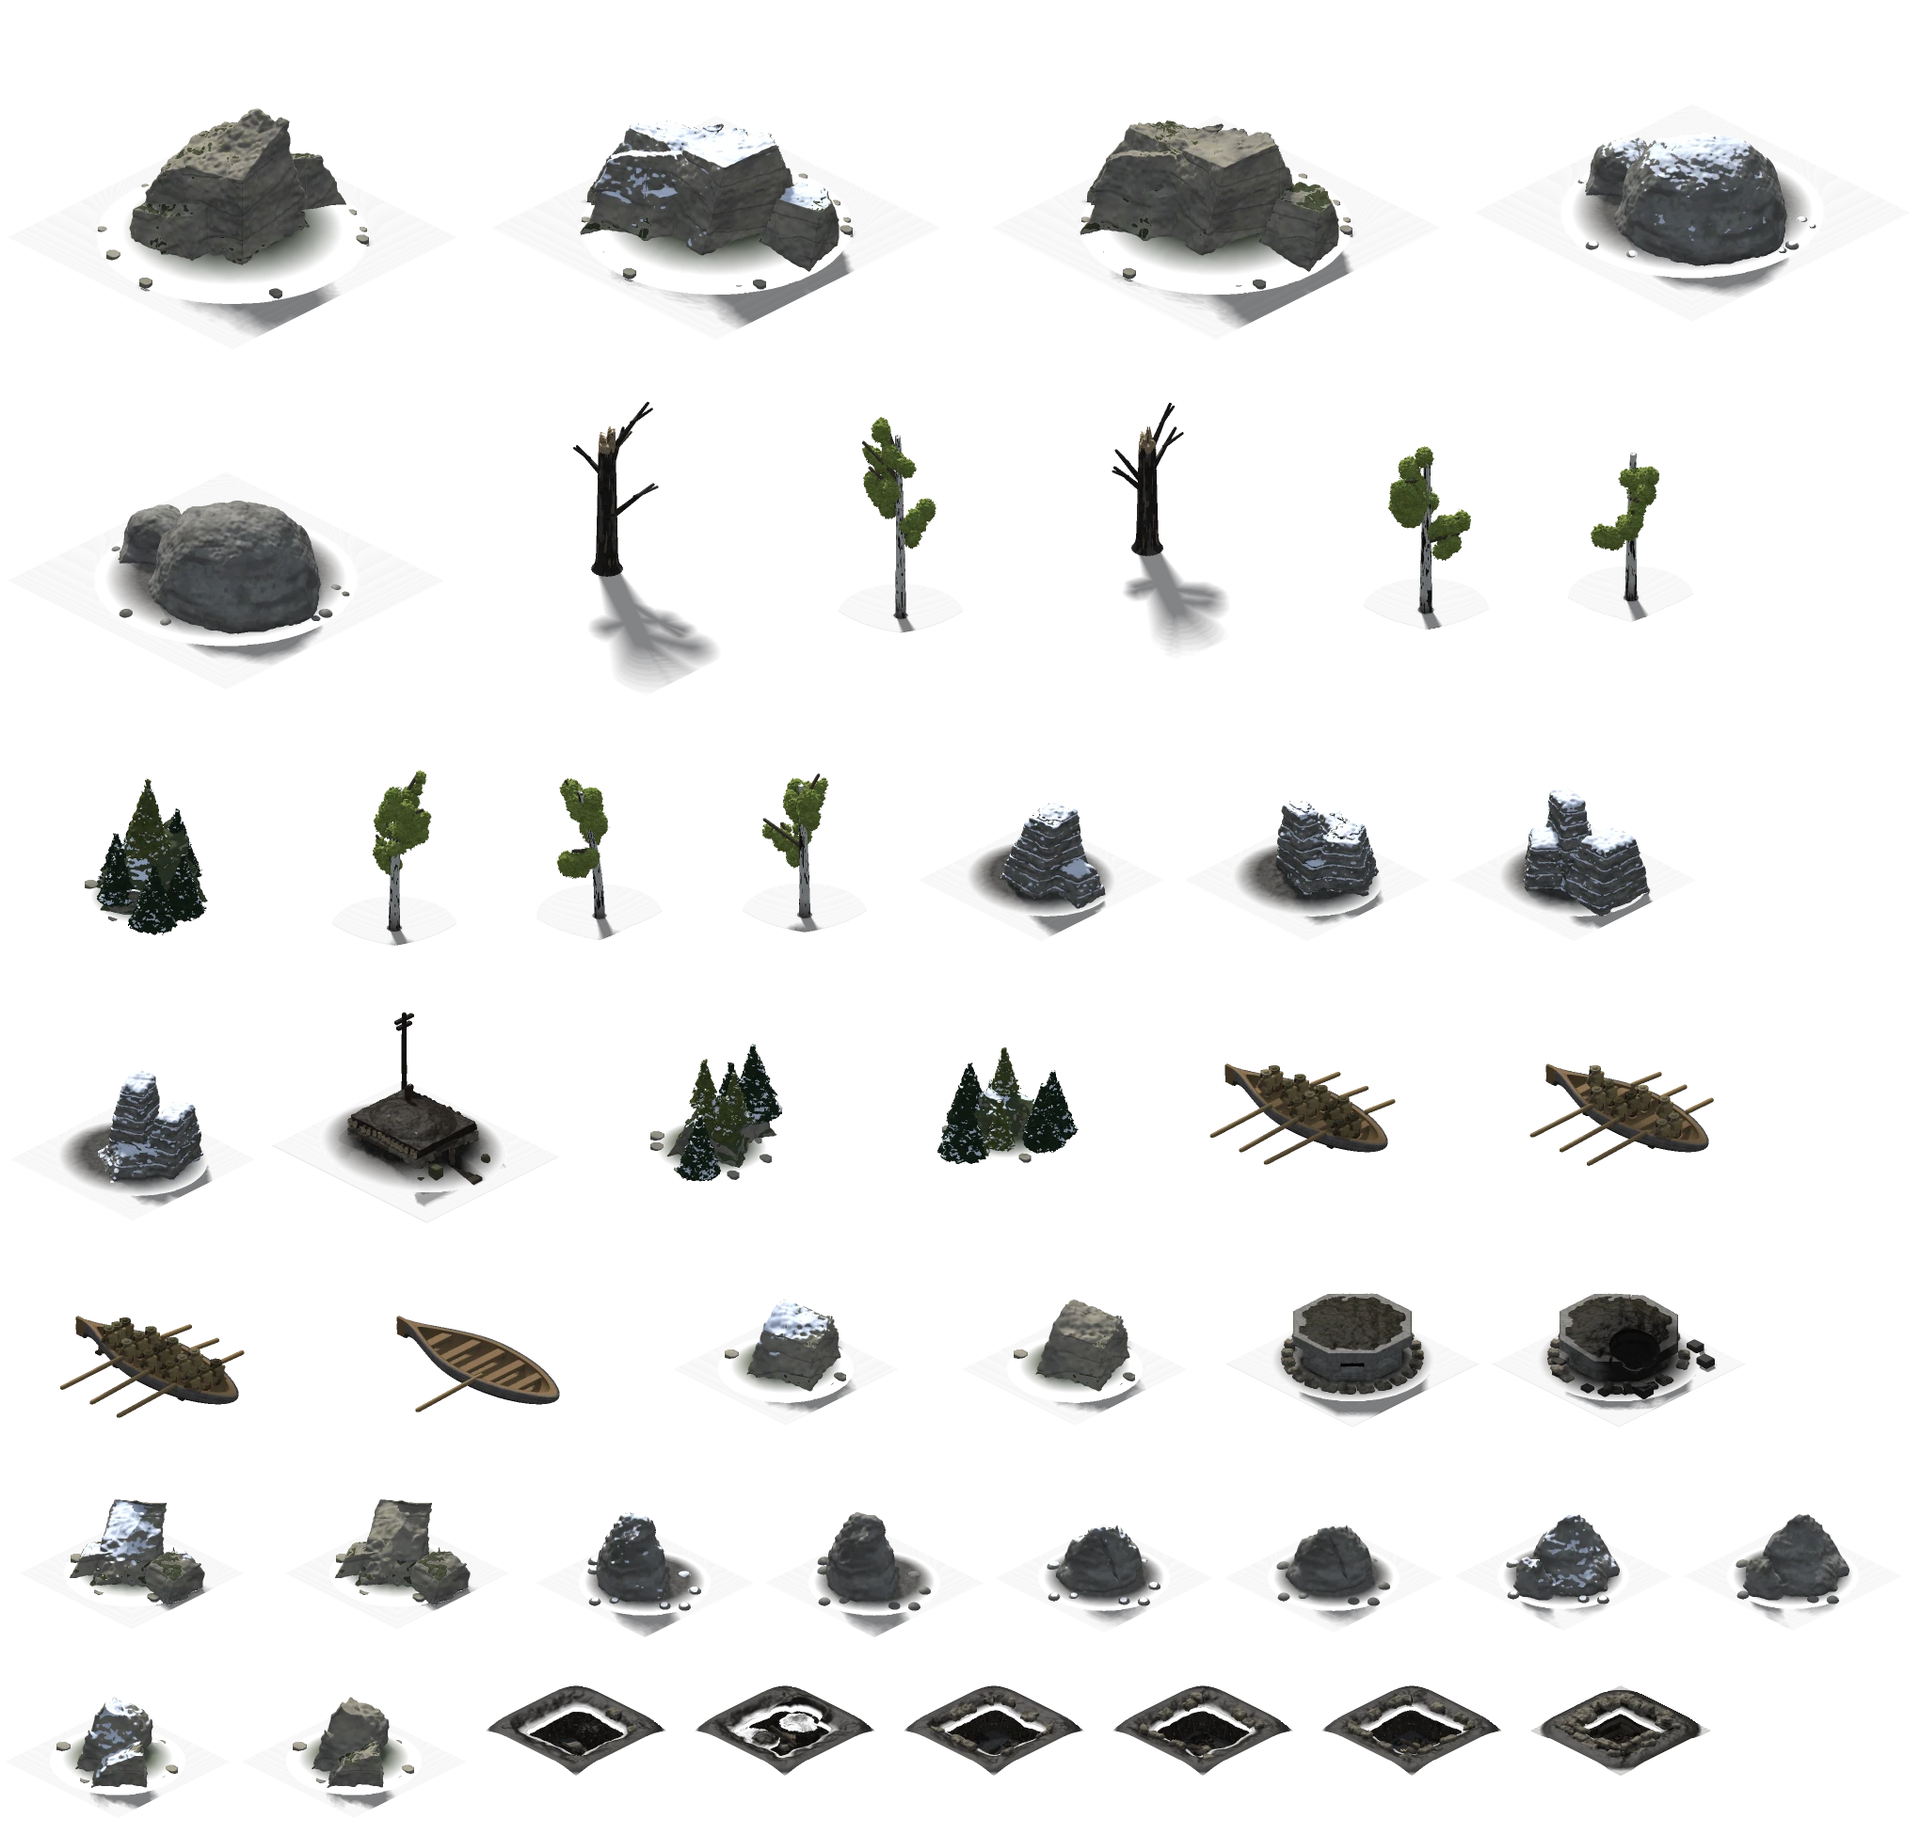
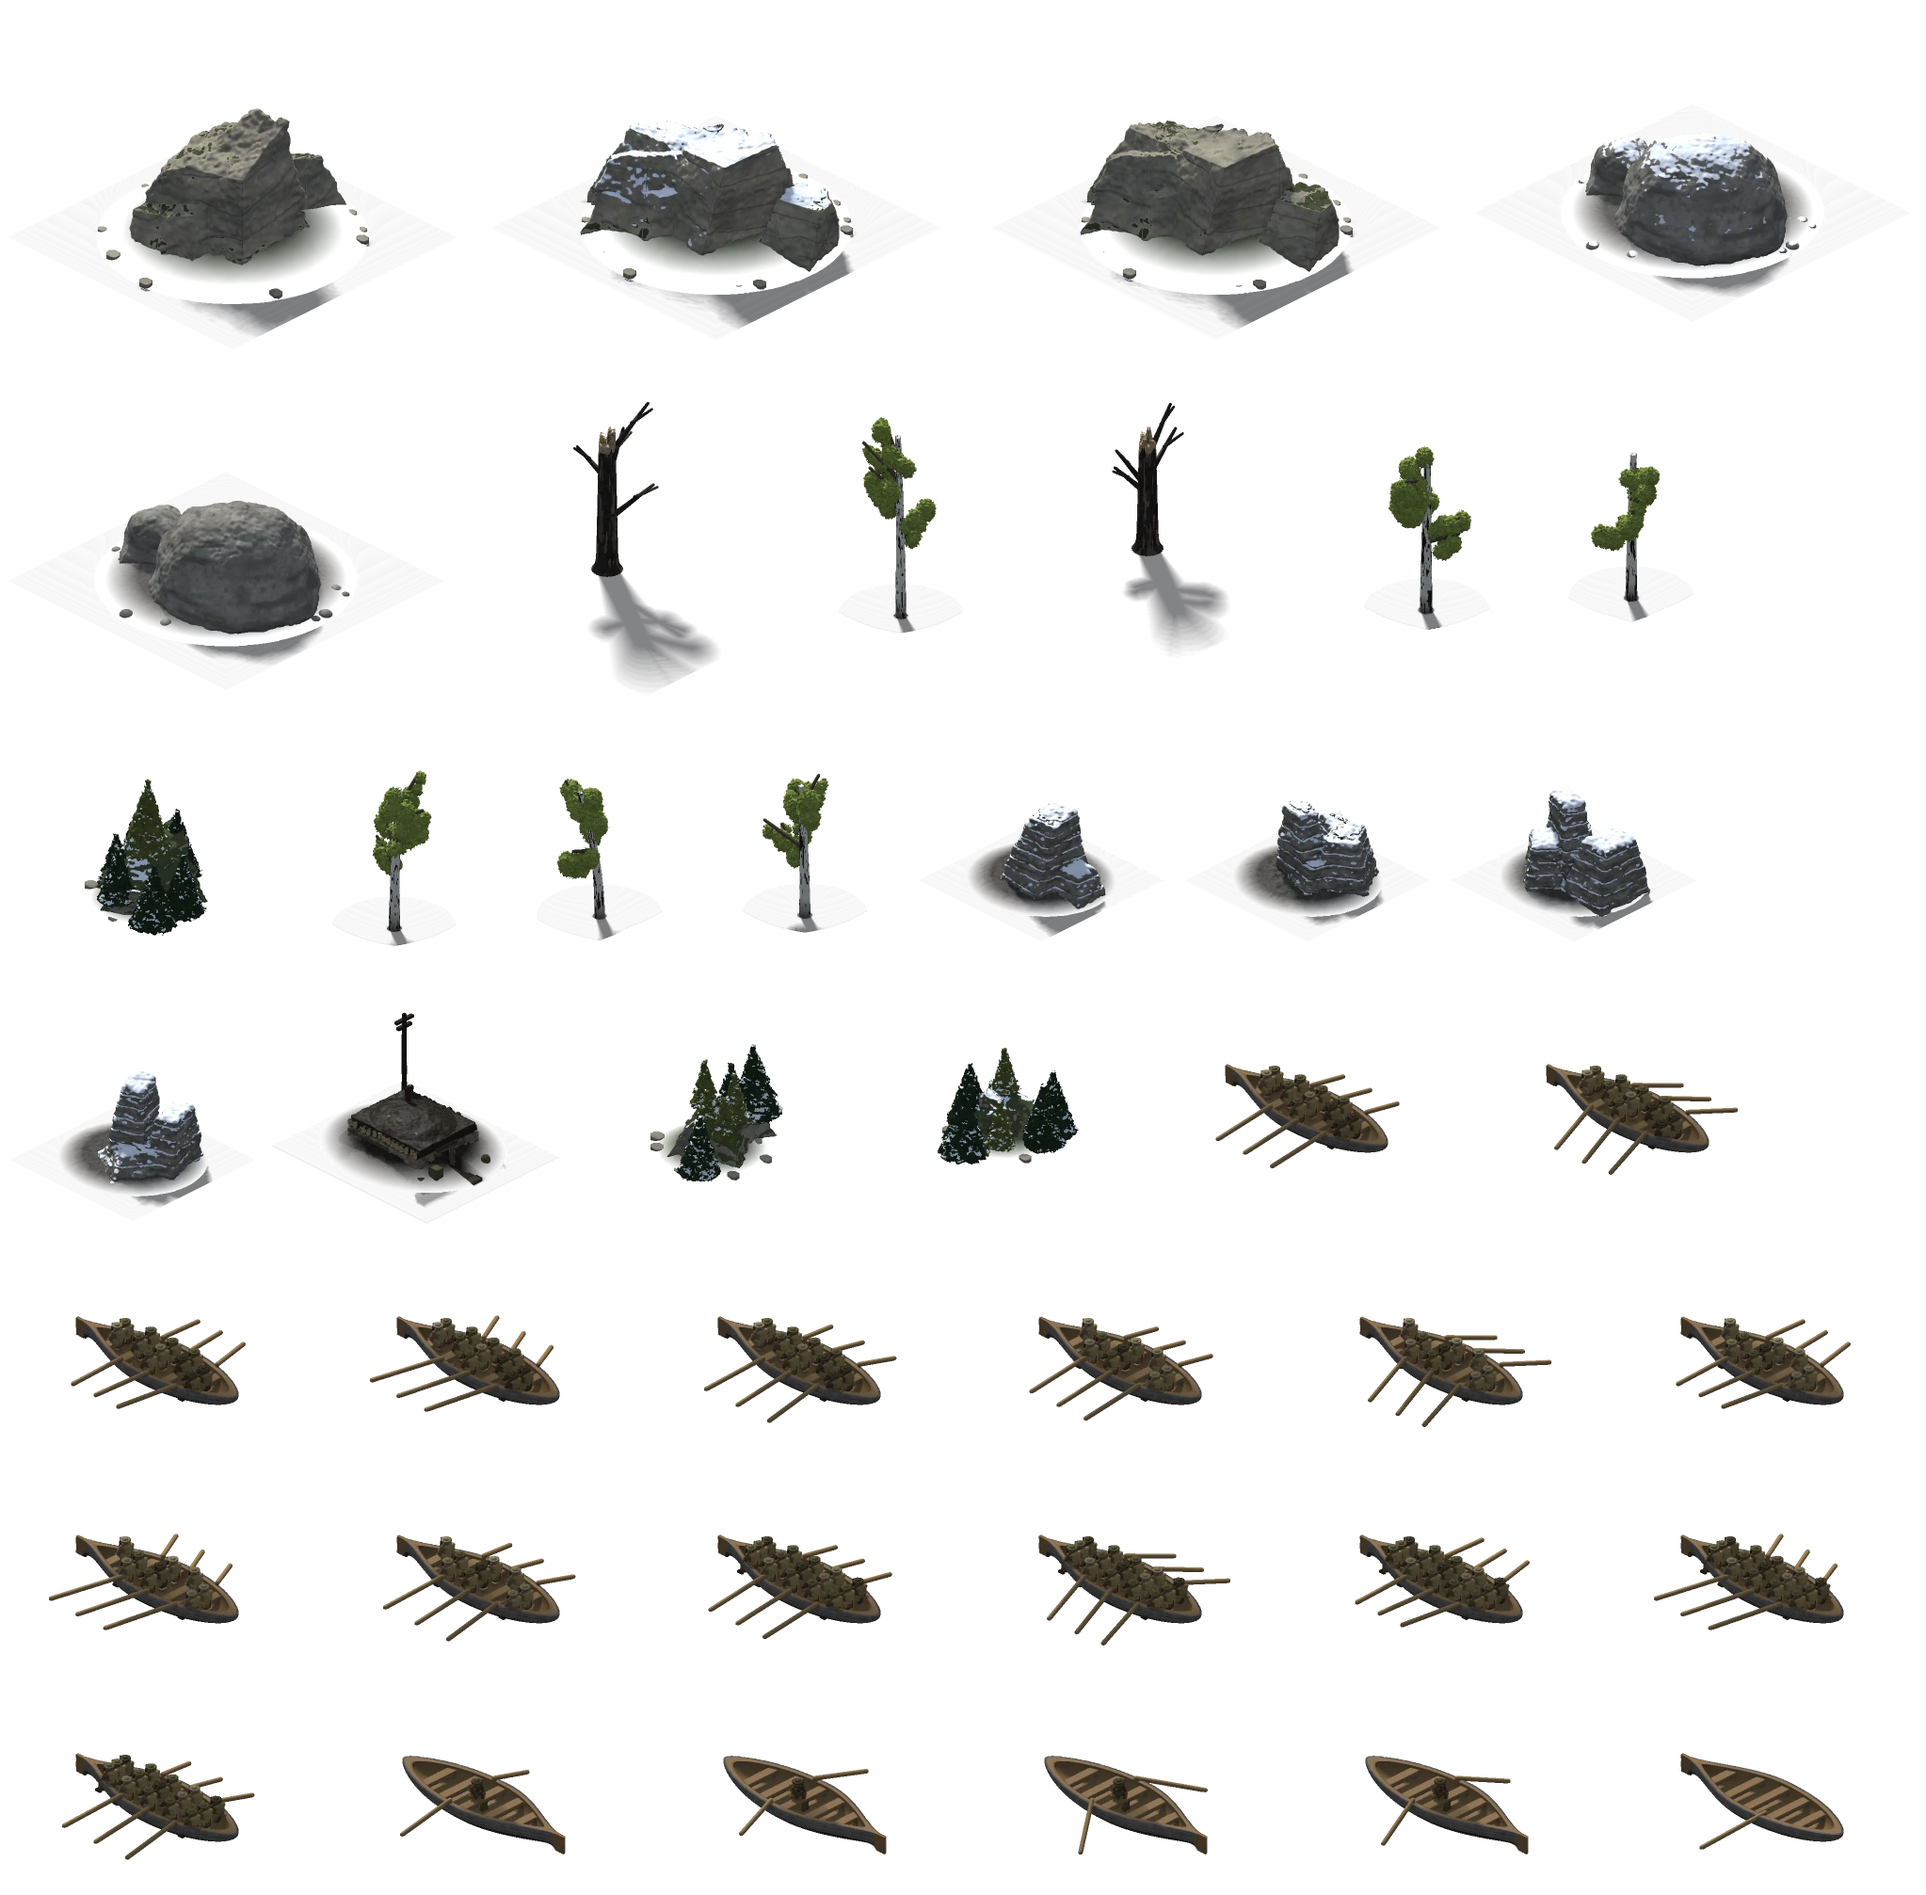
Landing boats rowed in by all hands, rowed back out by one man
The boats coming in are drawn with the oars working (4 pre-rendered strokes, every hand at an oar). On the
beach the men jump out at once and, instead of a beached boat, one of the crew rows the empty boat back
out to sea (a new pre-rendered boat, bow outward, one oarsman, 4 strokes) until it passes off the map.

Claude-Session: https://claude.ai/code/session_01QRLYjet5i3xPK5hPmw42NL

diff --git a/src/render.js b/src/render.js
@@ -981,6 +981,7 @@ export class Renderer {
     if (state.bunkers) for (const b of state.bunkers) objs.push({ k: b.x + b.y + 0.3, kind: 'bunker', b, u: state.units.find((u) => u.id === b.id) });
     for (const u of state.units) if (u.visible && !u.nest) objs.push({ k: u.onShip ? 1e6 : u.x + u.y, kind: 'unit', u }); // (a gun on a ship's deck stands on top of her)
     if (state.wrecks) for (const w of state.wrecks) objs.push({ k: w.x + w.y - 0.5, kind: 'wreck', w });
+    if (state.returning) for (const b of state.returning) objs.push({ k: b.x + b.y, kind: 'back', b });
     objs.sort((a, b) => a.k - b.k);
     for (const o of objs) {
       if (o.kind === 'decor') this.drawDecor(ctx, o.t);
@@ -988,6 +989,7 @@ export class Renderer {
       else if (o.kind === 'rock') this.drawRock(ctx, o.r);
       else if (o.kind === 'giant') { const c = iso(o.gi.x, o.gi.y); this.drawFrame(ctx, this.propGroup(), `giant${o.gi.v}${(this.S ?? 1) > 0.7 ? '_s' : ''}`, c.x, c.y, 1, o.gi.m); }
       else if (o.kind === 'town') this.drawBackdrop(ctx, o.bd);
+      else if (o.kind === 'back') { const c = iso(o.b.x, o.b.y), f = Math.floor((state.time * 1.6 + o.b.t) % 4); this.drawFrame(ctx, this.propGroup(), `boat_back_r${f}`, c.x, c.y + Math.sin(state.time * 1.7 + o.b.t) * 1.2, 1); }
       else if (o.kind === 'wreck') { const c = iso(o.w.x, o.w.y); this.drawFrame(ctx, this.propGroup(), o.w.v === 'empty' ? 'boat_empty' : `boat${o.w.v}`, c.x, c.y, 1, o.w.v === 'empty'); }
       else if (o.kind === 'bunker') this.drawBunker(ctx, o.b, o.u, state.time, ui.selected.has(o.b.id));
       else if (o.u.deck) { ctx.save(); ctx.translate(0, -o.u.deck); this.drawUnit(ctx, o.u, ui.selected.has(o.u.id), state.time); ctx.restore(); } // up on a ship's deck
@@ -1848,7 +1850,8 @@ export class Renderer {
     if (u.afloat) { // rowed in to the beach: the men in their boat
       if (selected) { ctx.strokeStyle = 'rgba(160,255,110,0.95)'; ctx.lineWidth = 1.6; ctx.beginPath(); ctx.ellipse(p.x, p.y, 30, 14, 0, 0, TAU); ctx.stroke(); }
       const bob = Math.sin(time * 1.7 + u.id) * 1.2;
-      if (this.drawFrame(ctx, this.propGroup(), `boat${u.id % 3}`, p.x, p.y + bob, 1)) return;
+      const stroke = Math.floor((time * 2.2 + u.id * 0.37) % 4); // all hands at the oars
+      if (this.drawFrame(ctx, this.propGroup(), `boat${u.id % 3}_r${stroke}`, p.x, p.y + bob, 1) || this.drawFrame(ctx, this.propGroup(), `boat${u.id % 3}`, p.x, p.y + bob, 1)) return;
     }
     if (selected) {
       ctx.strokeStyle = 'rgba(160,255,110,0.95)'; ctx.lineWidth = 1.6;

diff --git a/src/game.js b/src/game.js
@@ -485,7 +485,8 @@ function updateUnit(state, u, dt) {
   u.inTrench = !!tile && tile.trench > 0 && u.type !== 'artillery'; // a battery never goes down into a trench (it bridges it)
   // at sea: the men are in a boat (rowed in to the beach); stepping ashore leaves the boat beached at the water's edge
   const afloat = !!(tile && tile.sea) && !u.onShip; // (the guns on the River Clyde's deck are not in a boat)
-  if (u.afloat && !afloat && state.wrecks) state.wrecks.push({ x: u.x + 0.5 * teamDir(u.team), y: u.y, v: u.id % 3, t: state.time });
+  // the men jump out on the beach at once; one of the crew rows the empty boat back out to sea
+  if (u.afloat && !afloat && state.wrecks) (state.returning || (state.returning = [])).push({ x: u.x - 0.6 * teamDir(u.team), y: u.y, dir: -teamDir(u.team), t: state.time });
   u.afloat = afloat;
   // climbing out of a trench, or down into one, takes time: the men haul themselves over the parapet.
   // Out: as soon as the ground just ahead is no longer trench (the men are at the trench wall).
@@ -953,6 +954,11 @@ function explode(state, s) {
 }
 
 function updateEffects(state, dt) {
+  // boats rowed back out to sea after landing their men, until they pass out of sight off the map
+  if (state.returning && state.returning.length) {
+    for (const b of state.returning) b.x += b.dir * 1.1 * dt;
+    state.returning = state.returning.filter((b) => { const t = tileAt(state.map, b.x, b.y); return t && !t.off; });
+  }
   for (const e of state.effects) e.age += dt;
   state.effects = state.effects.filter((e) => e.age < e.life);
   if (state.effects.length > 700) state.effects.splice(0, state.effects.length - 700);

diff --git a/index.html b/index.html
@@ -14,13 +14,13 @@
       "./src/audio.js": "./src/audio.js?v=785b89d0",
       "./src/campaign.js": "./src/campaign.js?v=611f4718",
       "./src/config.js": "./src/config.js?v=82ca61d3",
-      "./src/game.js": "./src/game.js?v=a2137859",
+      "./src/game.js": "./src/game.js?v=620fa129",
       "./src/main.js": "./src/main.js?v=df11508a",
       "./src/map.js": "./src/map.js?v=3ed5bbdb",
       "./src/model-view.js": "./src/model-view.js?v=214a5b12",
       "./src/path.js": "./src/path.js?v=23c490f7",
       "./src/relief.js": "./src/relief.js?v=2441f819",
-      "./src/render.js": "./src/render.js?v=9ab73661",
+      "./src/render.js": "./src/render.js?v=d5baa66b",
       "./src/save.js": "./src/save.js?v=d7f96e45",
       "./src/tutorial.js": "./src/tutorial.js?v=134dce8b",
       "./src/ui.js": "./src/ui.js?v=4f9de07b",
